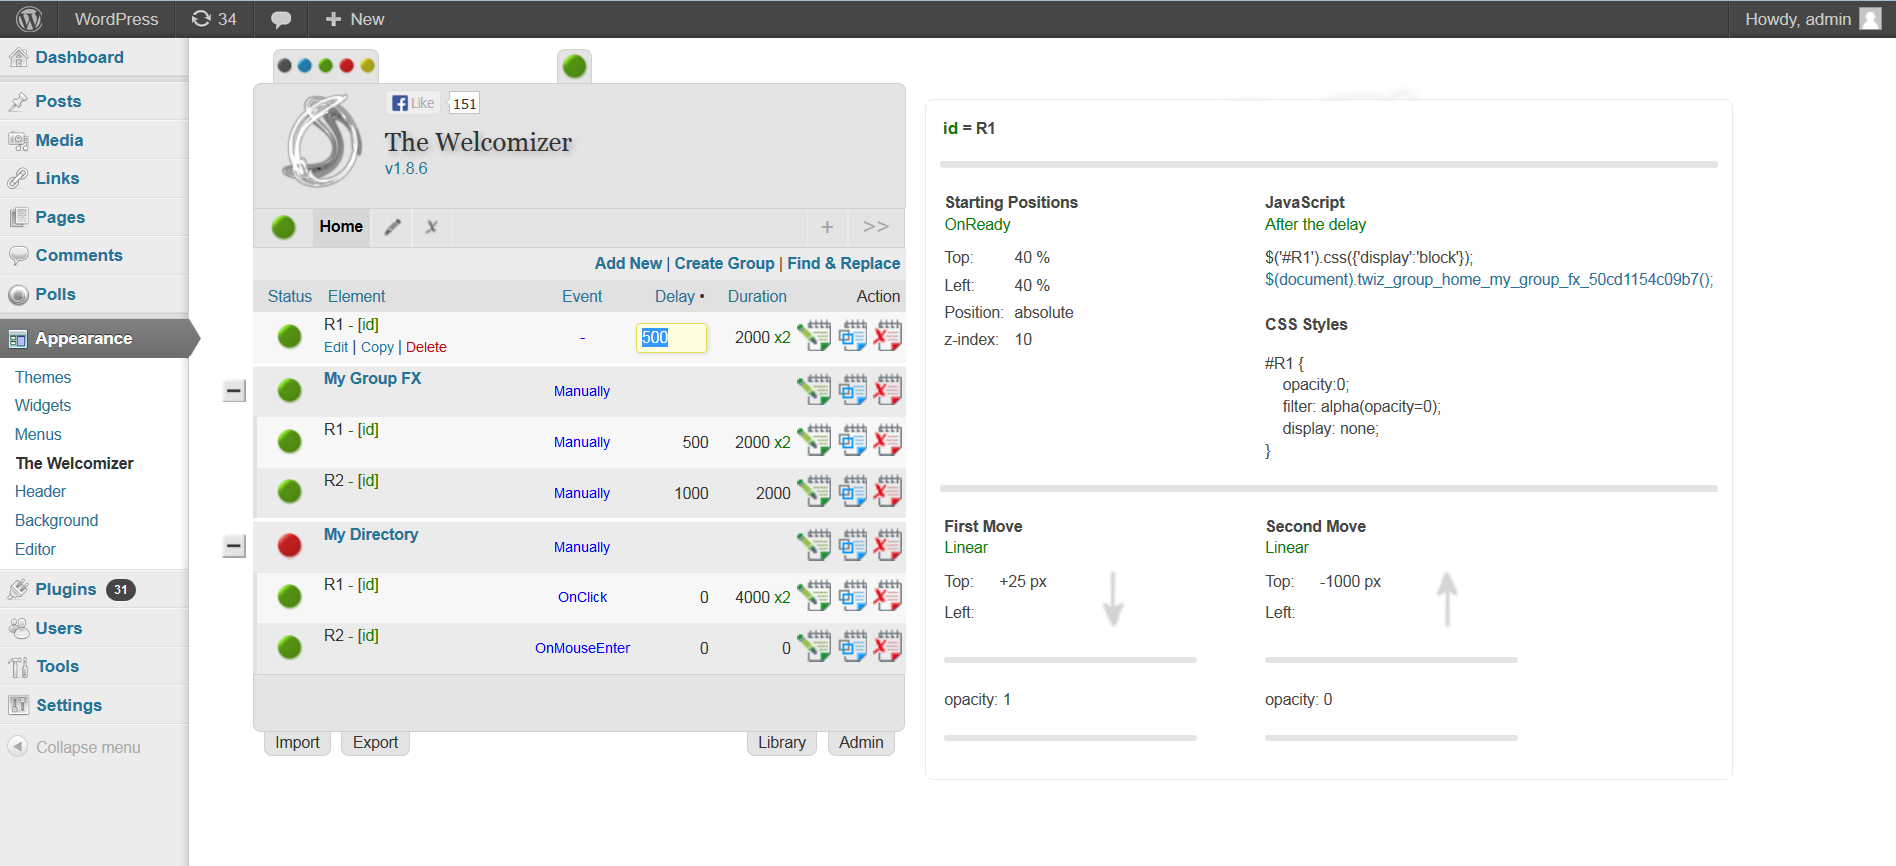
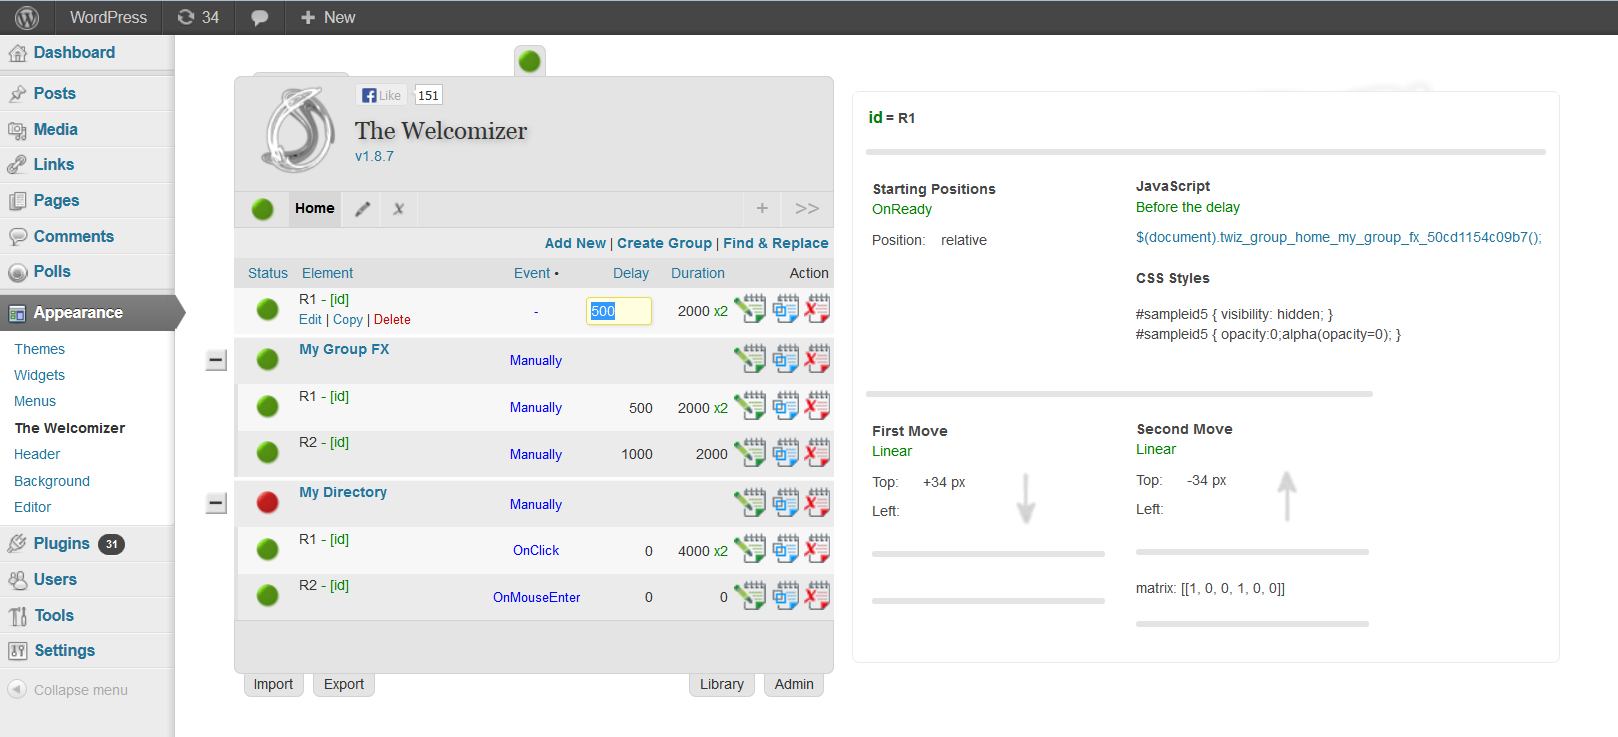
v1.8.7
git-svn-id: https://plugins.svn.wordpress.org/the-welcomizer/trunk@712152 b8457f37-d9ea-0310-8a92-e5e31aec5664

Changed region(s): [[0.0, 0.0, 1.0, 1.0], [0.6799, 0.8426, 0.8344, 0.8738], [0.0309, 0.9362, 0.0618, 0.9674]]

diff --git a/skins/green/twiz-style.css b/skins/green/twiz-style.css
@@ -102,6 +102,7 @@ div a:hover, td a:hover {
 #twiz_right_panel {
     margin: 19px 0 0 15px;   
     color: #464646;
+    background-color: #ffffff;    
 }
 #twiz_vertical_menu,
 #twiz_right_panel {
@@ -590,7 +591,7 @@ div a:hover, td a:hover {
 .twiz-tab {
     display: block;
     float: left;
-    border: 1px solid #5A9C14;
+    border: 1px solid #7CD71C;
     padding: 4px 8px 4px 8px;
     margin: 0px 5px 8px 0px;
     background-color: #92E13F;
@@ -769,8 +770,8 @@ div a:hover, td a:hover {
     margin: 1px;
 }
 .twiz-view-td-left {
-    width: 242px;
-    padding: 2px;
+    width: 200px;
+    padding: 2px 20px 2px 2px;
     font-size: 13px;
 }
 .twiz-view-td-right {

diff --git a/skins/red/twiz-style.css b/skins/red/twiz-style.css
@@ -102,6 +102,7 @@ div a:hover, td a:hover {
 #twiz_right_panel {
     margin: 19px 0 0 15px;   
     color: #464646;
+    background-color: #ffffff;    
 }
 #twiz_vertical_menu,
 #twiz_right_panel {
@@ -590,7 +591,7 @@ div a:hover, td a:hover {
 .twiz-tab {
     display: block;
     float: left;
-    border: 1px solid #B52828;
+    border: 1px solid #E44141;
     padding: 4px 8px 4px 8px;
     margin: 0px 5px 8px 0px;
     background-color: #FF4949;
@@ -769,8 +770,8 @@ div a:hover, td a:hover {
     margin: 1px;
 }
 .twiz-view-td-left {
-    width: 242px;
-    padding: 2px;
+    width: 200px;
+    padding: 2px 20px 2px 2px;
     font-size: 13px;
 }
 .twiz-view-td-right {

diff --git a/skins/yellow/twiz-style.css b/skins/yellow/twiz-style.css
@@ -102,6 +102,7 @@ div a:hover, td a:hover {
 #twiz_right_panel {
     margin: 19px 0 0 15px;   
     color: #464646;
+    background-color: #ffffff;    
 }
 #twiz_vertical_menu,
 #twiz_right_panel {
@@ -590,7 +591,7 @@ div a:hover, td a:hover {
 .twiz-tab {
     display: block;
     float: left;
-    border: 1px solid #9B9717;
+    border: 1px solid #E2DC40;
     padding: 4px 8px 4px 8px;
     margin: 0px 5px 8px 0px;
     background-color: #E2DC40;
@@ -769,8 +770,8 @@ div a:hover, td a:hover {
     margin: 1px;
 }
 .twiz-view-td-left {
-    width: 242px;
-    padding: 2px;
+    width: 200px;
+    padding: 2px 20px 2px 2px;
     font-size: 13px;
 }
 .twiz-view-td-right {

diff --git a/skins/_default/twiz-style.css b/skins/_default/twiz-style.css
@@ -102,6 +102,7 @@ div a:hover, td a:hover {
 #twiz_right_panel {
     margin: 19px 0 0 15px;   
     color: #464646;
+    background-color: #ffffff;
 }
 #twiz_vertical_menu,
 #twiz_right_panel {
@@ -594,7 +595,7 @@ div a:hover, td a:hover {
 .twiz-tab {
     display: block;
     float: left;
-    border: 1px solid #D7D7D7;
+    border: 1px solid #D1D1D1;
     padding: 4px 8px 4px 8px;
     margin: 0px 5px 8px 0px;
     background-color: #E4E4E4;
@@ -772,8 +773,8 @@ div a:hover, td a:hover {
     margin: 1px;
 }
 .twiz-view-td-left {
-    width: 242px;
-    padding: 2px;
+    width: 200px;
+    padding: 2px 20px 2px 2px;
     font-size: 13px;
 }
 .twiz-view-td-right {

diff --git a/skins/blue/twiz-style.css b/skins/blue/twiz-style.css
@@ -102,6 +102,7 @@ div a:hover, td a:hover {
 #twiz_right_panel {
     margin: 19px 0 0 15px;   
     color: #464646;
+    background-color: #ffffff;
 }
 #twiz_vertical_menu,
 #twiz_right_panel {
@@ -590,7 +591,7 @@ div a:hover, td a:hover {
 .twiz-tab {
     display: block;
     float: left;
-    border: 1px solid #2A98CB;
+    border: 1px solid #5DBAE5;
     padding: 4px 8px 4px 8px;
     margin: 0px 5px 8px 0px;
     background-color: #8ECBE7;
@@ -769,8 +770,8 @@ div a:hover, td a:hover {
     margin: 1px;
 }
 .twiz-view-td-left {
-    width: 242px;
-    padding: 2px;
+    width: 200px;
+    padding: 2px 20px 2px 2px;
     font-size: 13px;
 }
 .twiz-view-td-right {

diff --git a/includes/twiz.class.php b/includes/twiz.class.php
@@ -824,9 +824,9 @@ class Twiz{
         $pluginDir = str_replace('/includes/','',$pluginDir);
 
         /* Twiz variable configuration */
-        $this->version    = '1.8.6';
-        $this->cssVersion = '1-43';
-        $this->dbVersion  = '3.0';
+        $this->version    = '1.8.7';
+        $this->cssVersion = '1-44';
+        $this->dbVersion  = '3.01';
         $this->pluginUrl  = $pluginUrl;
         $this->pluginDir  = $pluginDir;
         $this->nonce      =  wp_create_nonce('twiz-nonce');
@@ -971,6 +971,8 @@ class Twiz{
         $ads['Sears'] = '<a href="http://www.tkqlhce.com/li122cy63y5LRSURVOOLNMSMMNQQ" target="_blank"><img src="http://www.lduhtrp.net/p298p59y31NTUWTXQQNPOUOOPSS" alt="Sears Canada" border="0" class="twiz-ads-img"/></a>';
         
         $ads['Lids'] = '<a href="http://www.tkqlhce.com/gf102js0ys-FLMOLPIIFHGKHMJKN" target="_blank"><img src="http://www.ftjcfx.com/ck77p59y31NTUWTXQQNPOSPURSV" alt="lids.com - the #1 destination for headwear" border="0" class="twiz-ads-img"/></a>';
+        
+        $ads['Scoutmob Shoppe'] = '<a href="http://www.anrdoezrs.net/sd70biroiq5BCEBF885779BBACD" target="_blank"><img src="http://www.ftjcfx.com/2i108tkocig178A7B44133577689" alt="" border="0" class="twiz-ads-img"/></a>';
        
         $ok = shuffle($ads);
         
@@ -2004,7 +2006,7 @@ $htmlview .='<tr><td colspan="2"><hr></td></tr>
         or ( $data[self::F_ZINDEX] != '' ) ){
     
             $colspan2 = ''; 
-            $htmlview .='<td valign="top"><table>
+            $htmlview .='<td class="twiz-view-td-left" valign="top"><table>
          <tr><td class="twiz-caption" colspan="3" nowrap="nowrap"><b>'.__('Starting Positions', 'the-welcomizer').'</b>
          <div class="twiz-green">'.$output_starting_pos.'</div><div class="twiz-spacer"></div></td></tr>';
      
@@ -2029,15 +2031,15 @@ $htmlview .='<tr><td colspan="2"><hr></td></tr>
 <td valign="top"'.$colspan2.'>
 <table>';
         
-        $htmlview .= ( $javascript != '' ) ? '<tr><td class="twiz-caption"  nowrap="nowrap"><b>'.__('JavaScript', 'the-welcomizer').'</b><div class="twiz-green">'.$output_javascript.'</div><div class="twiz-spacer"></div></td></tr><tr><td>'.$javascript.'</td></tr><tr><td><div class="twiz-spacer"></div></td></tr>' : '';
+        $htmlview .= ( $javascript != '' ) ? '<tr><td class="twiz-caption"  nowrap="nowrap"><b>'.__('JavaScript', 'the-welcomizer').'</b><div class="twiz-green">'.$output_javascript.'</div><div class="twiz-spacer"></div></td></tr><tr><td nowrap="nowrap">'.$javascript.'</td></tr><tr><td><div class="twiz-spacer"></div></td></tr>' : '';
 
-        $htmlview .= ( $css != '' ) ? '<tr><td class="twiz-caption"  nowrap="nowrap"><b>'.__('CSS Styles', 'the-welcomizer').'</b><div class="twiz-spacer"></div></td></tr>
-<tr><td>'.$css.'</td></tr>' : '';   
+        $htmlview .= ( $css != '' ) ? '<tr><td class="twiz-caption" nowrap="nowrap"><b>'.__('CSS Styles', 'the-welcomizer').'</b><div class="twiz-spacer"></div></td></tr>
+<tr><td nowrap="nowrap">'.$css.'</td></tr>' : '';   
         
         $htmlview .= '
 </table>    
 </td>
-</tr>';
+</tr></table>';
         }
     
        if ( ($element_move_b != '')
@@ -2054,8 +2056,9 @@ $htmlview .='<tr><td colspan="2"><hr></td></tr>
     
         if($hasMovements) {
 
-            $htmlview .= '<tr><td colspan="2"><hr></td></tr>
-<tr><td valign="top"'.$colspan2.'>
+            $htmlview .= '<table class="twiz-table-view" cellspacing="0" cellpadding="0">
+        <tr><td colspan="2"><hr></td></tr>
+<tr><td class="twiz-view-td-left" valign="top"'.$colspan2.'>
 <table>
     <tr><td class="twiz-caption" colspan="3" nowrap="nowrap"><b>'.__('First Move', 'the-welcomizer').'</b>
     <div class="twiz-green">'.$easing_a.'</div><div class="twiz-spacer"></div></td></tr>';
@@ -2068,11 +2071,11 @@ $htmlview .='<tr><td colspan="2"><hr></td></tr>
         
             $htmlview .= '</table><table class="twiz-view-table-more-options"><tr><td><hr></td></tr>';
 
-            $htmlview .= ( $data[self::F_OPTIONS_A] != '' ) ? '<tr><td>'.str_replace("\n", "<br>",$data[self::F_OPTIONS_A]).'</td></tr>' : '';
+            $htmlview .= ( $data[self::F_OPTIONS_A] != '' ) ? '<tr><td nowrap="nowrap">'.str_replace("\n", "<br>",$data[self::F_OPTIONS_A]).'</td></tr>' : '';
 
             $htmlview .= '<tr><td><hr></td></tr>';
 
-            $htmlview .= ( $extra_js_a != '' ) ? '<tr><td>'.$extra_js_a.'</td></tr>' : '';
+            $htmlview .= ( $extra_js_a != '' ) ? '<tr><td nowrap="nowrap">'.$extra_js_a.'</td></tr>' : '';
         
             $htmlview .= '</table>';
     
@@ -2098,11 +2101,11 @@ $htmlview .='<tr><td colspan="2"><hr></td></tr>
             
                 $htmlview .= '</table><table class="twiz-view-table-more-options"><tr><td><hr></td></tr>';
                 
-                $htmlview .= ( $data[self::F_OPTIONS_B] != '' ) ? '<tr><td>'.str_replace("\n", "<br>",$data[self::F_OPTIONS_B]).'</td></tr>' : '';
+                $htmlview .= ( $data[self::F_OPTIONS_B] != '' ) ? '<tr><td nowrap="nowrap">'.str_replace("\n", "<br>",$data[self::F_OPTIONS_B]).'</td></tr>' : '';
 
                 $htmlview .= '<tr><td><hr></td></tr>';
                 
-                $htmlview .= ( $extra_js_b != '' ) ? '<tr><td>'.$extra_js_b.'</td></tr>' : '';
+                $htmlview .= ( $extra_js_b != '' ) ? '<tr><td nowrap="nowrap">'.$extra_js_b.'</td></tr>' : '';
 
                 $htmlview .= '</table>';
             }

diff --git a/twiz-index.php b/twiz-index.php
@@ -1,7 +1,7 @@
 <?php
 /*
 Plugin Name: The Welcomizer
-Version: 1.8.6
+Version: 1.8.7
 Plugin URI: http://www.sebastien-laframboise.com/wordpress/plugins-wordpress/the-welcomizer
 Description: This plugin allows you to animate your blog using jQuery effects. (100% AJAX) + .js/.css Includer.
 Author: S&#233;bastien Laframboise

diff --git a/includes/twiz.ajax.class.php b/includes/twiz.ajax.class.php
@@ -2073,6 +2073,7 @@ class TwizAjax extends Twiz{
             $("#twiz_container").css("display", "none"); 
             twiz_ListMenu_Unbind();
             bind_twiz_ListMenu();
+            $("#twiz_group_name").focus();
         });
     });       
     $("[name^=twiz_group_anim_link]").hover(function(){
